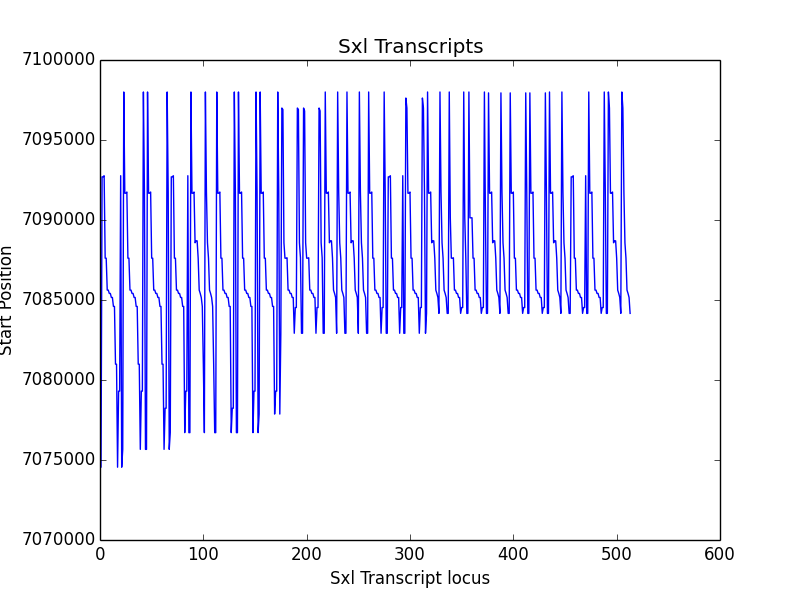
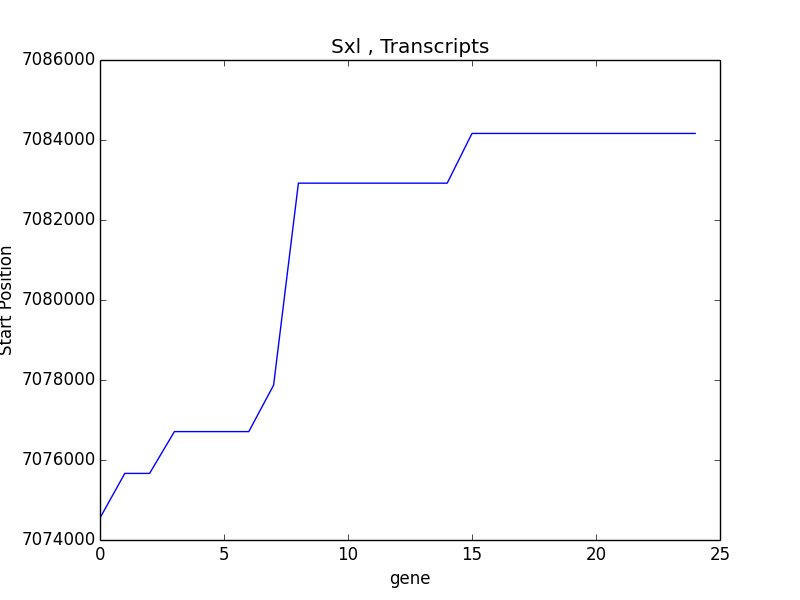
Update code for solely Sxl transcripts

diff --git a/day2/transcript_sxl_BDGP6.py b/day2/transcript_sxl_BDGP6.py
@@ -18,7 +18,7 @@ print df[roi].shape
 roi2 = df["type"].str.contains("transcript")
 #print df2.shape
 
-df2 = df[roi]["start"][roi2]
+print df[roi][roi2]
 
 #roi = df["attributes"].str.contains("Sxl")
 #df2 = df[roi]
@@ -27,8 +27,8 @@ df2 = df[roi]["start"][roi2]
 #col = df3["start"]
 
 plt.figure()
-plt.title("Sxl Transcripts")
-plt.plot(df[roi]["start"])
+plt.title("Sxl , Transcripts")
+plt.plot(df[roi][roi2]["start"])
 plt.ylabel("Start Position")
-plt.xlabel("Sxl Transcript locus")
-plt.savefig("Sxl Trascript Loci")
+plt.xlabel("gene")
+plt.savefig("Sxl_Trascript_Loci")
